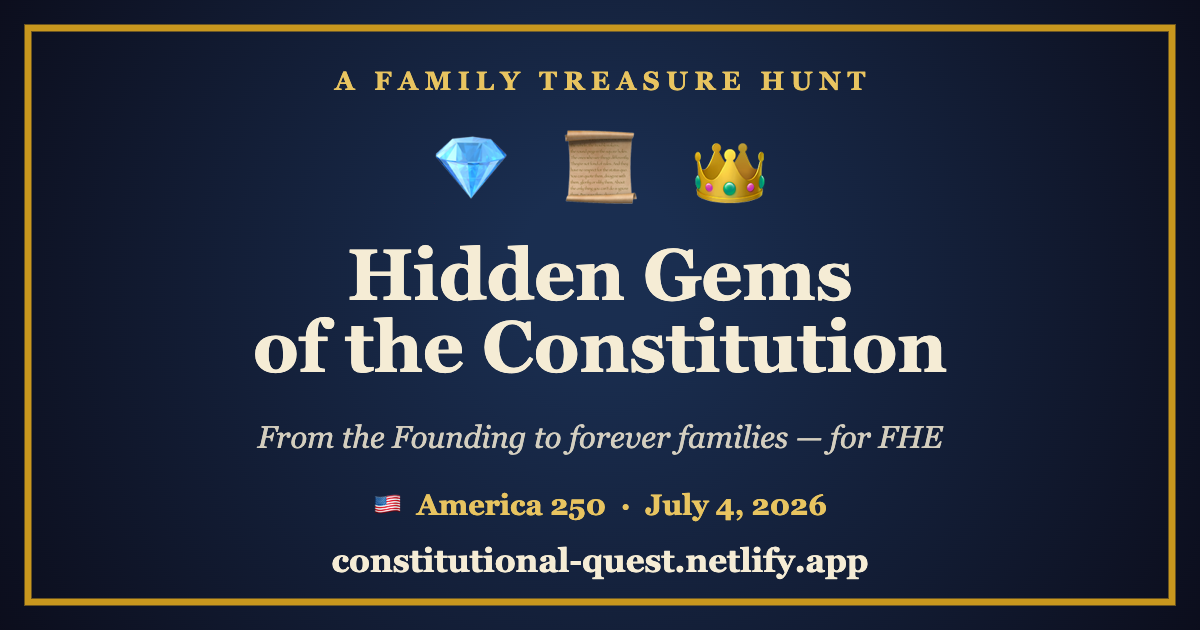
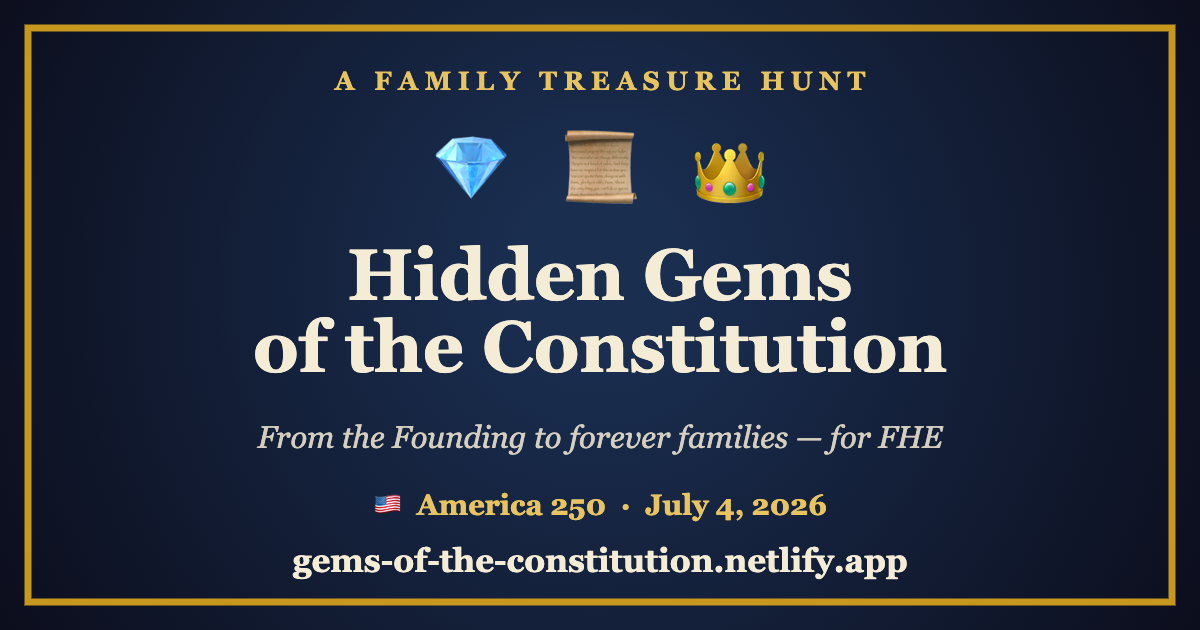
Rename site URL to gems-of-the-constitution.netlify.app (match title)

Changed region(s): [[0.2467, 0.8444, 0.7708, 0.9349]]

diff --git a/guide.html b/guide.html
@@ -40,7 +40,7 @@
   <div class="sub">A treasure-hunt game that teaches the Declaration of Independence, the Constitution, and how religious freedom enabled the Restoration — from the Founding to forever families.</div>
 
   <div class="lead">
-    <b>Play it free in any web browser:</b> &nbsp; <span class="url">constitutional-quest.netlify.app</span><br>
+    <b>Play it free in any web browser:</b> &nbsp; <span class="url">gems-of-the-constitution.netlify.app</span><br>
     No app to install. Works on a phone, tablet, or computer. 1–4 players take turns together.
   </div>
 
@@ -109,15 +109,15 @@
   <h2>Jump straight to a quest (for teachers)</h2>
   <p>Short on time, or want to review just one part? Add one of these to the end of the web address and the game starts there — no need to replay earlier quests:</p>
   <table>
-    <tr><td class="k">constitutional-quest.netlify.app<b>#level2</b></td><td>Start at Quest 2 — The Restoration Key (the scripture scrolls)</td></tr>
-    <tr><td class="k">constitutional-quest.netlify.app<b>#level3</b></td><td>Start at Quest 3 — The Covenant Crown (living prophets)</td></tr>
-    <tr><td class="k">constitutional-quest.netlify.app<b>#finale</b></td><td>Jump to the finale (the closing testimony &amp; America 250)</td></tr>
+    <tr><td class="k">gems-of-the-constitution.netlify.app<b>#level2</b></td><td>Start at Quest 2 — The Restoration Key (the scripture scrolls)</td></tr>
+    <tr><td class="k">gems-of-the-constitution.netlify.app<b>#level3</b></td><td>Start at Quest 3 — The Covenant Crown (living prophets)</td></tr>
+    <tr><td class="k">gems-of-the-constitution.netlify.app<b>#finale</b></td><td>Jump to the finale (the closing testimony &amp; America 250)</td></tr>
   </table>
   <p class="note">Tip: after the page loads, pick your players and tap “Start the Quest” — it will open right to that quest.</p>
 
   <div class="footer">
     Made with love (and a little help from Claude) by <b>Brother Reif Tauati</b> · <a href="https://thegoodproject.net">thegoodproject.net</a> · <a href="mailto:[email redacted]">[email redacted]</a><br>
-    Play &amp; collaborate: constitutional-quest.netlify.app · github.com/goodindustries/constitutional-quest<br>
+    Play &amp; collaborate: gems-of-the-constitution.netlify.app · github.com/goodindustries/constitutional-quest<br>
     <i>“We claim the privilege of worshiping Almighty God according to the dictates of our own conscience, and allow all men the same privilege.” — Articles of Faith 1:11</i>
   </div>
 

diff --git a/index.html b/index.html
@@ -9,14 +9,14 @@
 <meta property="og:title" content="Hidden Gems of the Constitution">
 <meta property="og:description" content="A 3-quest treasure hunt for FHE: the Founding, the Restoration, and the Covenant. Discover how God protected freedom so families can be together forever.">
 <meta property="og:type" content="website">
-<meta property="og:url" content="https://constitutional-quest.netlify.app">
-<meta property="og:image" content="https://constitutional-quest.netlify.app/og.png">
+<meta property="og:url" content="https://gems-of-the-constitution.netlify.app">
+<meta property="og:image" content="https://gems-of-the-constitution.netlify.app/og.png">
 <meta property="og:image:width" content="1200">
 <meta property="og:image:height" content="630">
 <meta name="twitter:card" content="summary_large_image">
 <meta name="twitter:title" content="Hidden Gems of the Constitution">
 <meta name="twitter:description" content="A 3-quest treasure hunt for FHE — discover how God protected freedom so families can be together forever.">
-<meta name="twitter:image" content="https://constitutional-quest.netlify.app/og.png">
+<meta name="twitter:image" content="https://gems-of-the-constitution.netlify.app/og.png">
 <link href="https://fonts.googleapis.com/css2?family=Cinzel:wght@400;600;700&family=Lora:ital,wght@0,400;0,600;1,400&family=Nunito:wght@400;600;700;800;900&display=swap" rel="stylesheet">
 <style>
 *, *::before, *::after { margin:0; padding:0; box-sizing:border-box; }
@@ -1605,7 +1605,7 @@ function startPreview() {
 function stopPreview() { clearInterval(pvTimer); }
 
 // ───────────── SHARING (canvas-rendered image card) ─────────────
-const SHARE_URL = 'https://constitutional-quest.netlify.app';
+const SHARE_URL = 'https://gems-of-the-constitution.netlify.app';
 
 // Count a share on the Netlify Function (fire-and-forget) and refresh the badge.
 // No-op when opened from file:// (the API only exists on the deployed site).
@@ -1692,7 +1692,7 @@ function makeShareCard({ emoji, title, quote, ref, footer }) {
   ctx.fillText(footer || 'Play & learn:', W/2, H-150);
   ctx.fillStyle = '#f5ecd5';
   ctx.font = 'bold 40px Georgia';
-  ctx.fillText('constitutional-quest.netlify.app', W/2, H-100);
+  ctx.fillText('gems-of-the-constitution.netlify.app', W/2, H-100);
 
   return new Promise(res => cv.toBlob(res, 'image/png'));
 }

diff --git a/README.md b/README.md
@@ -2,7 +2,7 @@
 
 A faith-building, kid-friendly **treasure-hunt game** that teaches the **Declaration of Independence**, the **Constitution**, and how religious freedom enabled the **Restoration of the Church** — built for Family Home Evening, aligned with the First Presidency's 2026 invitation to teach the significance of America's founding documents and to give thanks for religious liberty.
 
-### ▶️ Play it free: **[constitutional-quest.netlify.app](https://constitutional-quest.netlify.app)**
+### ▶️ Play it free: **[gems-of-the-constitution.netlify.app](https://gems-of-the-constitution.netlify.app)**
 No install. Works on a phone, tablet, or computer. 1–4 players take turns together.
 
 📄 **[Download the FHE / Teacher Guide (PDF)](constitutional-quest-fhe-guide.pdf)** — how to run it, talking points, and verified scripture/prophet sources.